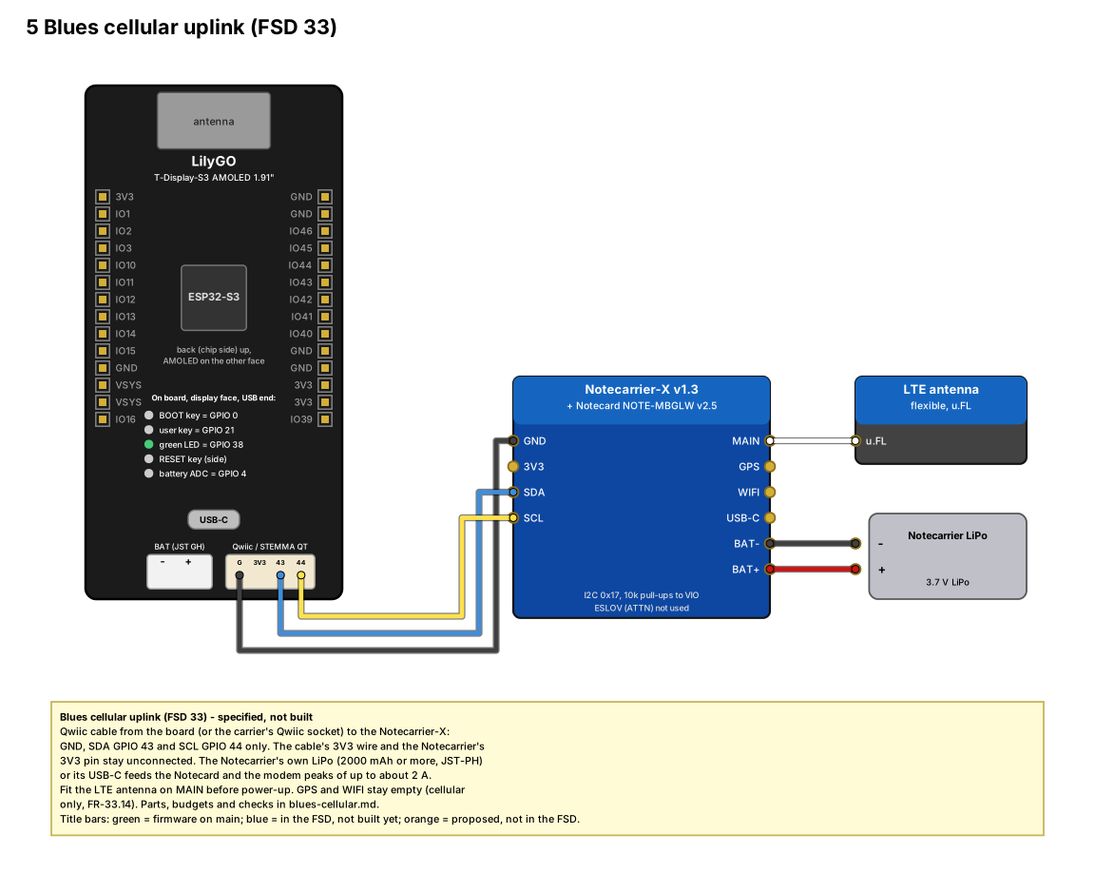
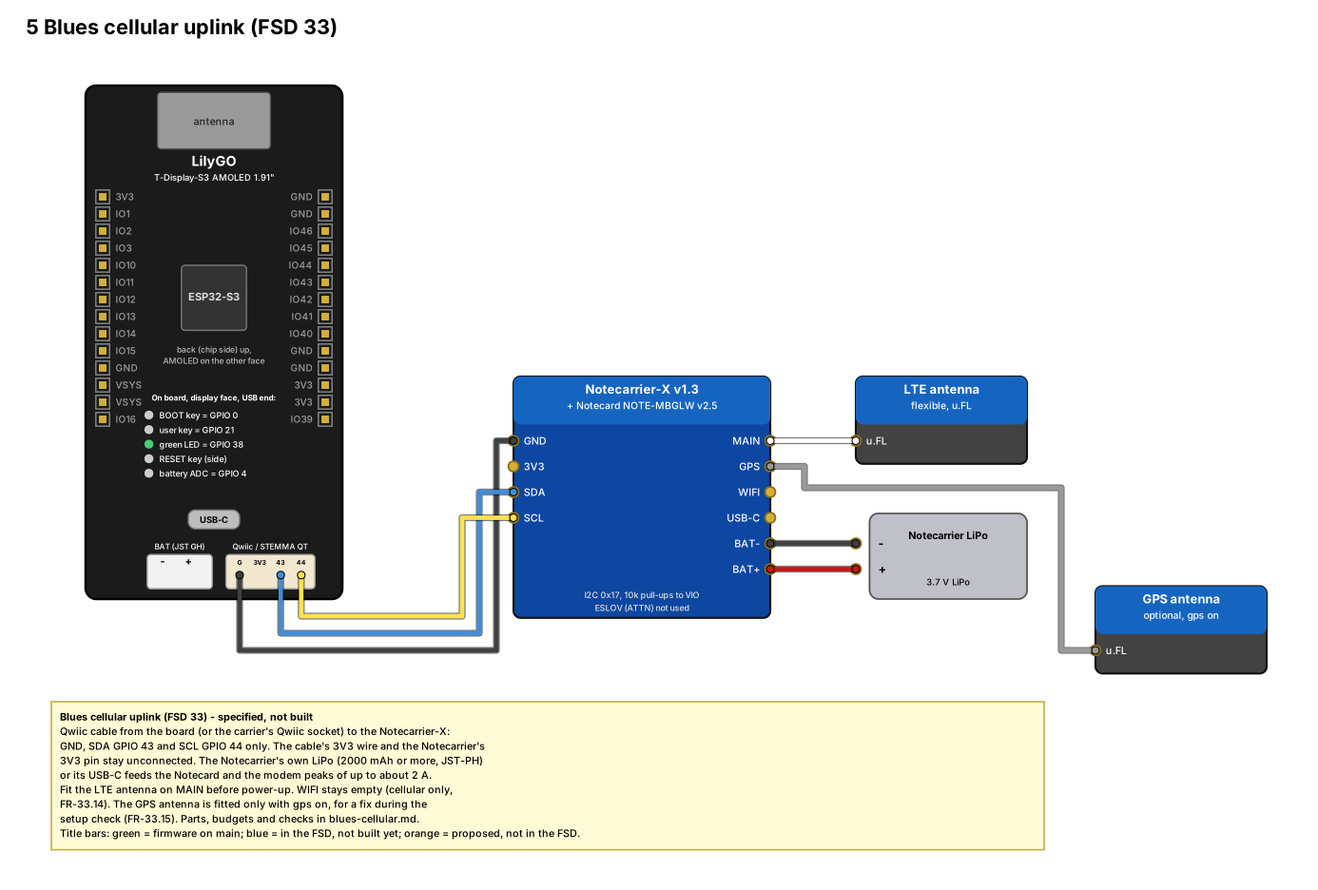
FSD 0.30.0: optional GPS fix during the setup check
From the user's request that the GPS be optionally used during setup.
A `gps` setting (on/off, only with uplink cell) makes the device seek a
fix with the Notecard's own GPS during each setup check hold, store the
place, hand it to the Notecard as its fixed location and send it to
ThingsBoard as latitude/longitude; line 6 shows the search during the
hold. L45 and R-35 (the Notecard's GPS and modem never run together,
and the GPS waits for the first Notehub sync) added. The hardware page,
its block figure, Fritzing sheet 5 and User Manual chapters 2 and 5g
gain the optional GPS antenna on the GPS u.FL.

Claude-Session: https://claude.ai/code/session_014onQRhSBgt3NiRWa3h5T5y

Changed region(s): [[0.0312, 0.0915, 0.9688, 0.976], [0.0312, 0.0, 0.3125, 0.061]]

diff --git a/docs/Method/project/wiring/make_wiring.py b/docs/Method/project/wiring/make_wiring.py
@@ -285,6 +285,9 @@ def build_parts(used):
     add(module_part("tds3a_lte_antenna", ["LTE antenna", "flexible, u.FL"], "specified",
                     left=["u.FL"], w=1000, color="#424242",
                     desc="Flexible LTE antenna with a u.FL lead, on the Notecard's MAIN port"))
+    add(module_part("tds3a_gps_antenna", ["GPS antenna", "optional, gps on"], "specified",
+                    left=["u.FL"], w=1000, color="#424242",
+                    desc="GPS antenna with a u.FL lead, on the Notecard's GPS port (optional)"))
     # 4-20 mA loop input, FSD section 29
     # Pin names are the parts' own (docs/Method/project/loop-circuit.md, "Parts").
     add(module_part("tds3a_load_switch", ["Load switch"], "built",
@@ -903,7 +906,9 @@ def sheet_blues(S):
                              ("Q SDA", "SDA", "blue", 3700, 2800),
                              ("Q SCL", "SCL", "yellow", 3600, 2700)):
         S.wire((B, bp), ("U2", np_), c, ("y", y), ("x", x))
+    S.place("AE2", "tds3a_gps_antenna", 6400, 3425)
     S.wire(("U2", "MAIN"), ("AE1", "u.FL"), "white")
+    S.wire(("U2", "GPS"), ("AE2", "u.FL"), "grey", ("x", 4700), ("y", 2850), ("x", 6200))
     S.wire(("U2", "BAT-"), ("BT2", "-"), "black")
     S.wire(("U2", "BAT+"), ("BT2", "+"), "red")
     S.note(300, 4100, 5800, [
@@ -912,8 +917,9 @@ def sheet_blues(S):
         "GND, SDA GPIO 43 and SCL GPIO 44 only. The cable's 3V3 wire and the Notecarrier's",
         "3V3 pin stay unconnected. The Notecarrier's own LiPo (2000 mAh or more, JST-PH)",
         "or its USB-C feeds the Notecard and the modem peaks of up to about 2 A.",
-        "Fit the LTE antenna on MAIN before power-up. GPS and WIFI stay empty (cellular",
-        "only, FR-33.14). Parts, budgets and checks in blues-cellular.md.",
+        "Fit the LTE antenna on MAIN before power-up. WIFI stays empty (cellular only,",
+        "FR-33.14). The GPS antenna is fitted only with gps on, for a fix during the",
+        "setup check (FR-33.15). Parts, budgets and checks in blues-cellular.md.",
         LEGEND,
     ])
 
@@ -928,7 +934,7 @@ SHEETS = [
     ("wiring-4-rs232", "4  RS232 instrument (FSD 30)",
      (9200, 6000), {"IO11", "IO12", "IO13", "GND"}, sheet_rs232),
     ("wiring-5-blues-cellular", "5  Blues cellular uplink (FSD 33)",
-     (6400, 5100), set(), sheet_blues),
+     (7700, 5200), set(), sheet_blues),
 ]
 
 

diff --git a/docs/Functionality/TDisplay-S3-Webserver-FSD.md b/docs/Functionality/TDisplay-S3-Webserver-FSD.md
@@ -417,7 +417,7 @@ testbench.
 - **Scope.** The optional Notecard uplink: settings, Notecard setup, the
   ThingsBoard batches, alerts and summary email as notes, the clock from the
   Notecard.
-- **Deliverables.** §33, L43, L44, the L20 `src=cell` form, R-31 – R-33; the
+- **Deliverables.** §33, L43 – L45, the L20 `src=cell` form, R-31 – R-33, R-35; the
   shared `notecard` component in esp-idf-components; a commissioning program
   that talks to the Notecard on GPIO 43/44 beside the BME280 and measures the time and size of a 100-reading `tb.qo` note and of one hourly sync (FR-33.7, NFR-33.2); a User Manual
   section for the Notehub project and its routes.
@@ -484,6 +484,7 @@ testbench.
 | R-31 | The testbench has no Notecard and no cellular coverage is declared at the bench, so the cellular rows need a Notecard on SLOT1's bus and a Notehub project | Certain | Medium | The user fits the Notecarrier-X by Qwiic at the bench; until then the cellular rows are `not done` and the cores are host-tested |
 | R-32 | A note counts as sent when the Notecard accepts it, so a route that fails later (wrong URL, target down) is not seen by the device | Certain | Medium | Notehub keeps each event and shows route failures and retries; the User Manual tells the user to check the route log |
 | R-33 | Notehub reaches the targets from the internet, so the LAN test servers (`192.168.2.37`, `192.168.2.231`) cannot be reached over cellular | Certain | Medium | Over cellular, ThingsBoard and ntfy must be the internet-reachable servers (`https://`, FR-32.9); the LAN servers stay for WiFi |
+| R-35 | The Notecard's GPS turns on only after its first Notehub sync and never while its modem is on, a cold first fix takes 1 – 2 min or fails indoors, and the Notecard ends a seek after about 17 min (after 90 s with no signal at all), so a setup check may end without a fix | Likely | Low | The search runs for the whole hold (up to 30 min, FR-24.6) after the time step's session; the GPS antenna faces the sky; an earlier place stays stored; the next key wake or setup check tries again |
 | R-34 | The shunt's 0.1 % and the ADS1115's worst-case gain error of 0.15 % together can exceed NFR-29.1 at 20 mA (0.05 mA against 0.04 mA); typical parts are well inside it | Unlikely | Medium | The NFR-29.1 calibrator test decides on each board; a board that fails gets a one-point gain trim setting, defined as a new requirement first |
 | R-27 | The testbench offers no RS232 peer today, so the bench tier of §30 needs a USB-RS232 adapter on the testbench host, wired to the DUT's DE-9, and a way for a test to drive it | Certain | Medium | The user adds the adapter (decided 2026-11-01); until the bench declares it, the RS232 bench rows are `not done` and the cores are host-tested; the loopback runs on the target tier |
 
@@ -652,7 +653,8 @@ Six text lines, landscape: lines 1 – 5 at most 33 characters each, line 6
 in a smaller font at most 44 (FR-6.14, FR-6.15). Line 4 is the
 reading in every state (FR-23.12); line 5 is empty except during the setup
 check (FR-24.13) and a BLE window (FR-26.23); line 6 holds the add-on values
-(FR-29.8, FR-30.10), empty with every add-on off; the table gives lines 1 – 3.
+(FR-29.8, FR-30.10), empty with every add-on off, except that it shows the
+GPS search during a setup check with `gps` `on` (FR-33.19); the table gives lines 1 – 3.
 
 | Connectivity state | Line 1 | Line 2 | Line 3 |
 |--------------------|--------|--------|--------|
@@ -1046,6 +1048,7 @@ bench. Transport: ESP-IDF log over USB-Serial/JTAG (C-10.5). Tag: `web`.
 | L42 | ThingsBoard request failed (FR-32.11) | `web: tb failed: <wifi\|dns\|connect\|tls\|cert\|auth\|refused\|server\|timeout> what=<telemetry\|attributes> n=<readings>` | W |
 | L43 | Note accepted by the Notecard (FR-33.11) | `web: cell note <tb\|tbattr\|alert\|mail> n=<readings, or 1>` | I |
 | L44 | Notecard request failed (FR-33.4, FR-33.10) | `web: cell failed: <timeout\|err\|full> <req>` | W |
+| L45 | GPS search ended in the setup check (FR-33.17, FR-33.18) | `web: gps fix lat=<±d.ddddd> lon=<±d.ddddd>` or `web: gps none` | I |
 | L17 | End of startup | `Init complete, running event-driven` (any tag) | I |
 
 ### 7.3 Requirements
@@ -1911,8 +1914,9 @@ with 60 they run 00:00, 01:00, 02:00 and so on. These two fields are the
 
 When WiFi has just been configured, the device does not drop straight into its
 sleep cycle. It holds with the panel lit, shows live readings and asks the
-installer to press a key to continue, so the sensors (and later e.g. a
-GPS fix) can be checked in place first. A pending mark in NVS says the check is
+installer to press a key to continue, so the sensors can be checked in place
+first, and, when `gps` is `on`, the Notecard takes a GPS fix of the place
+(§33.5, FR-33.15). A pending mark in NVS says the check is
 still owed; it survives sleep, reset and power loss. The logic layer (§5)
 decides when to hold and when the hold ends; the composition root reads the key
 and the clock. Either key ends the hold: the BOOT key, GPIO 0, next to the LED
@@ -3180,7 +3184,7 @@ holds, the composition root performs it.
 | Bus | I2C at 0x17 on the BME280's bus (GPIO 43/44, 100 kHz, C-23.1) through a Qwiic cable from the carrier's I2C fan-out (§2.2), which also feeds the BME280 and the water probe board; no address clash with 0x76 or the water ADS1115's 0x48. The Notecard's own 10 kΩ pull-ups to its VIO join the bus, so the bus's pull-ups in parallel stay at or above about 2.2 kΩ | [proposed] |
 | Power | The Notecarrier-X's own LiPo (or its USB-C) supplies the Notecard and its modem peaks (up to about 2 A), a LiPo of at least **2000 mAh** [proposed]: at hourly syncs (`cell_every` 60) the Notecard uses about **10 mAh a day** (Blues' published sync and idle figures; real use depends on signal, and each `sync:true` alert or email adds a session), so 2000 mAh lasts about 6 months between charges; the cable joins GND, SDA and SCL only, its 3.3 V wire left unconnected, so the board's 3.3 V and the Notecarrier's regulator are never tied together | [proposed] |
 | ATTN | Not connected in the first build (the Qwiic cable carries no ATTN; the ESLOV connector would); the device polls the Notecard | [proposed] |
-| Antenna | LTE: one flexible LTE antenna on the Notecard's `MAIN` u.FL, required because the Notecarrier-X has no onboard antenna, mounted with its long axis vertical on the inside of a plastic enclosure wall, at least 10 mm from metal, the LiPo and both PCBs, its coax kept clear of the AMOLED's QSPI lines and the ESP32-S3's antenna. GPS: not used by §33, so the `GPS` port's antenna needs no placement. WiFi: the Notecard's own WiFi is not used (FR-33.14), so its onboard WiFi antenna and `WIFI` u.FL need no placement. The combined LTE + GPS flexible antenna is used whole, never cut; separate orientations take two single flexible antennas. The fit is checked by the signal bars (`tbattr.qo`) with the enclosure closed | [proposed] |
+| Antenna | LTE: one flexible LTE antenna on the Notecard's `MAIN` u.FL, required because the Notecarrier-X has no onboard antenna, mounted with its long axis vertical on the inside of a plastic enclosure wall, at least 10 mm from metal, the LiPo and both PCBs, its coax kept clear of the AMOLED's QSPI lines and the ESP32-S3's antenna. GPS: only with `gps` `on` (FR-33.15), a GPS antenna on the Notecard's `GPS` u.FL (the GPS part of Blues' combined LTE + GPS flexible antenna, or a single GPS antenna), placed with the best view of the sky the site allows, for the fix during the setup check; with `gps` `off` the port stays empty. WiFi: the Notecard's own WiFi is not used (FR-33.14), so its onboard WiFi antenna and `WIFI` u.FL need no placement. The combined LTE + GPS flexible antenna is used whole, never cut; separate orientations take two single flexible antennas. The fit is checked by the signal bars (`tbattr.qo`) with the enclosure closed | [proposed] |
 
 ### 33.3 Settings
 
@@ -3192,6 +3196,7 @@ submission without them leaves the uplink as it was (`wifi` on a new device).
 | `uplink` | `wifi` or `cell` | one of the two; `cell` needs `nh_product`, given or stored | the stored value; `wifi` when none is stored [proposed] |
 | `nh_product` | the Notehub ProductUID, e.g. `com.example.joe:weather` | 1 – 64 bytes, letters, digits, `.`, `:`, `-` and `_` | the stored value |
 | `cell_every` | minutes between the Notecard's outbound syncs | whole minutes, 10 – 1440 | 60 [proposed] |
+| `gps` | take a GPS fix of the place during the setup check (§24): `on` or `off` | one of the two; `on` needs `uplink` `cell`, given or stored | the stored value; `off` when none is stored [proposed] |
 | `cell_mail` | email over cellular: `route` (a note to `mail.qo`, which a Notehub route passes to an HTTP mail service) or `off` (no email while `uplink` is `cell`) | one of the two | the stored value; `off` when none is stored [proposed] |
 
 ### 33.4 Notes
@@ -3199,7 +3204,7 @@ submission without them leaves the uplink as it was (`wifi` on a new device).
 | Notefile | Holds | Sync | Notehub route (set up by the user, User Manual) |
 |----------|-------|------|------------------------------------------------|
 | `tb.qo` | One ThingsBoard batch: the telemetry array of §32.3 as `body.t`, at most 100 readings | at the next periodic sync | General HTTP, JSONata `body.t`, to `<tb_url>/api/v1/<tb_token>/telemetry` |
-| `tbattr.qo` | The attributes of §32.3, with `"uplink":"cell"`, the signal bars and the Notecard's firmware version | at the next periodic sync | General HTTP to `<tb_url>/api/v1/<tb_token>/attributes` |
+| `tbattr.qo` | The attributes of §32.3, with `"uplink":"cell"`, the signal bars, the Notecard's firmware version and, when a place is stored, `latitude` and `longitude` (FR-33.18) | at the next periodic sync | General HTTP to `<tb_url>/api/v1/<tb_token>/attributes` |
 | `alert.qo` | One alert: `topic`, `title`, `priority`, `tags`, `message` of §31.3 | at once (`sync:true`) | General HTTP to the ntfy server's JSON publish endpoint `<ntfy_url>/` |
 | `mail.qo` | One email: `to`, `subject`, `text` (the §25 message, the §28 result); only with `cell_mail` `route` | at once (`sync:true`) | General HTTP to the user's mail service (e.g. SMTP2GO or SendGrid), its API key in the route |
 
@@ -3217,7 +3222,7 @@ Settings:
   field (portal) or `invalid=<field>` (BLE).
 - **FR-33.2** [Must] [derived] Valid settings shall be stored in NVS with the
   other settings at T3, or by an accepted BLE write in a key window (T14),
-  reported by the `settings` read (FR-26.9) with `uplink=<wifi|cell>` and `cell_mail=<route|off>`, and
+  reported by the `settings` read (FR-26.9) with `uplink=<wifi|cell>`, `cell_mail=<route|off>` and `gps=<on|off>`, and
   erased by a factory reset (T10), which also sets `uplink` back to `wifi`.
 - **FR-33.13** [Must] [user] Email over cellular shall be selectable by
   `cell_mail`: with `route`, a due summary or test result is added to
@@ -3283,6 +3288,35 @@ Time:
   again every **5 s** for up to **60 s** [proposed]; on a timer wake it asks
   once and does not wait.
 
+Location (optional, during the setup check):
+
+- **FR-33.15** [Must] [user] With `uplink` `cell` and `gps` `on`, the device
+  shall seek a GPS fix with the Notecard's own GPS during each setup check
+  hold (§24), and only then. With `gps` `off`, on a timer wake, and outside
+  the hold, it never turns the Notecard's GPS on.
+- **FR-33.16** [Must] [proposed] When the hold starts, after the Notecard
+  setup (FR-33.4, FR-33.14) and the time step of FR-33.12, the device shall
+  send `card.location.mode` `continuous` and ask `card.location` every
+  **5 s** until it answers with a fix (`lat` and `lon`) or the hold ends.
+  The Notecard turns its GPS on only after its first completed Notehub
+  sync, and never while its modem is on, so the search may wait for a
+  session to end (R-35).
+- **FR-33.17** [Must] [proposed] On a fix, the device shall store the
+  latitude and longitude (5 decimals) and the fix time in NVS, replacing
+  any earlier place, send `card.location.mode` `fixed` with them (the GPS
+  turns off, and Notehub tags each later event with the place), and log
+  L45 with the fix. The fix does not end the hold.
+- **FR-33.18** [Must] [proposed] When the hold ends without a fix (key or
+  timeout), the device shall send `card.location.mode` `fixed` with the
+  stored place, or `off` when none is stored, and log L45 `none`. A stored
+  place shall be sent as the attributes `latitude` and `longitude` with the
+  ThingsBoard attributes (`tbattr.qo`, and §32.3 over WiFi), and erased by
+  a factory reset (T10).
+- **FR-33.19** [Must] [proposed] During the hold with `gps` `on`, line 6
+  shall show `GPS searching <mm>:<ss>` (time since the search began) until
+  a fix, then `GPS <lat> <lon>` (5 decimals, at most 44 characters), in
+  place of the add-on values, which return when the hold ends.
+
 Power and data:
 
 - **NFR-33.1** [Must] [derived from NFR-32.1] A timer wake that sends notes
@@ -3311,6 +3345,11 @@ Power and data:
 | FR-33.6, FR-33.11, NFR-33.1 | Sleep test build, `uplink` `cell`, a Notecard on the bench (R-31), an upload due on the next timer wake | `web: wake cause=timer`, L21, L43 `tb.qo`, `web: sleep` within 10 s; the event on Notehub; no WiFi start | WiFi on a timer wake; the panel lit | target (R-31) |
 | FR-33.12 (core) | Window, clock never set: `card.time` answers no time, then a time on the 4th ask; never a time; timer wake with no time | One `hub.sync`, asks at 5 s steps, clock set on the 4th; asks stop at 60 s; one ask, no wait | A second `hub.sync`; waiting on a timer wake | host |
 | FR-33.12 | Power-on with `uplink` `cell`, the bench AP down | L20 with `src=cell` and a year ≥ 2026 within 60 s | A reading with `at=none` after L20 | target (R-31) |
+| FR-33.1, FR-33.15 (core) | Bodies: `gps=on` with `uplink` `wifi` stored; with `uplink=cell`; `gps=yes` | 400 `gps`; stored; 400 `gps` | `gps` `on` stored with `uplink` `wifi` |
+| FR-33.15, FR-33.16, FR-33.17 (core) | Hold with `gps` `on`: `card.location` answers no fix twice, then a fix; `gps` `off`; a timer wake | `continuous` once, asks at 5 s steps, then `fixed` with the place, the place stored, L45; no location request with `off` or on a timer wake | A location request outside the hold; the hold ended by the fix |
+| FR-33.18 (core) | Hold ends by key with no fix: a place stored; none stored | `fixed` with the stored place, L45 `none`; `off`, L45 `none` | The stored place erased by a failed search |
+| FR-33.19 (core) | Line 6 at 0 s, 75 s, after a fix at 40.712776, -74.005974 | `GPS searching 00:00`; `GPS searching 01:15`; `GPS 40.71278 -74.00597` | More than 44 characters; the add-on values during the search |
+| FR-33.15, FR-33.17 | A Notecard with its GPS antenna at a window (R-31, R-35), `gps` `on`, provisioned | L45 with the bench's place within the hold; `latitude` and `longitude` in the next `tbattr.qo` | L45 on a timer wake | bench (operator) |
 | FR-33.8 | The user's routes set up, an alert and a summary due | The ntfy message and the email arrive | Nothing on the target with L43 logged | bench (operator) |
 | NFR-33.2 | A month of the `std` setup on cellular | Notehub's data use for the device under 4 MB | — | bench (operator) |
 
@@ -3484,7 +3523,8 @@ Runtime configuration (the only persisted items):
 | `tb`, `tb_url`, `tb_every` | on/off / text / minutes | `off`; none; 60 | §32.2 | NVS | operational | portal (§13, §32.2), BLE (§26) | FR-32.1 | immediate (T3); restart (T14) | erased by factory reset |
 | `tb_token` | text | none | 1 – 64 letters, digits, `-`, `_` | NVS | secret | portal (§13, §32.2), BLE write only (§26) | FR-32.1 | immediate (T3); restart (T14) | erased by factory reset |
 | `tb_mark` | place in the history | before the oldest reading | §27 | NVS | operational | moved by an accepted upload (FR-32.8) | none | next upload | erased by factory reset |
-| `uplink`, `nh_product`, `cell_every`, `cell_mail` | text / number | `wifi`, none, 60, `off` | §33.3 | NVS | operational | portal (§13), BLE (§26) | FR-33.1 | immediate (T3); restart (T14) | erased by factory reset (`uplink` back to `wifi`) |
+| `uplink`, `nh_product`, `cell_every`, `cell_mail`, `gps` | text / number | `wifi`, none, 60, `off`, `off` | §33.3 | NVS | operational | portal (§13), BLE (§26) | FR-33.1 | immediate (T3); restart (T14) | erased by factory reset (`uplink` back to `wifi`) |
+| `gps_lat`, `gps_lon`, `gps_at` | number / time | none | 5 decimals; the fix time | NVS | operational | set by a fix in the setup check (FR-33.17) | none | next attributes | erased by factory reset |
 | `wifi` | on/off | `on` | `on`, `off` | NVS | operational | portal (§13, §34.2), BLE (§26) | FR-34.1 | immediate (T3, T16); restart (T14) | erased by factory reset (back to `on`) |
 | `setup_check` | flag | not pending | pending / not | NVS | operational | set by T3, cleared by a key (FR-24.11) | none | next non-timer boot | erased by factory reset |
 | `history` | readings (§27.1) | empty | 2 MB, about 65,000 readings | flash partition (C-10.10) | operational | appended by the task; read by `GET /api/history` and BLE (§27) | FR-27.3 | next reading | erased by factory reset (FR-27.7) |
@@ -3642,7 +3682,7 @@ they apply in changed (SHOWING → LCD_OK, §5.3's display region).
 
 ```yaml
 document_status: draft
-fsd_version: 0.29.0
+fsd_version: 0.30.0
 repository: https://github.com/solchjg/tdisplay-s3-amoled
 baseline_commit: (the commit introducing this version)
 applicable_firmware_version: none yet
@@ -3703,8 +3743,10 @@ change_history:
   - "0.27.0 2026-11-02 from the user's antenna question (orientation of the Blues combined LTE + GPS antenna, can it be cut): §33.2 gains an Antenna row (proposed)"
   - "0.28.0 2026-11-02 from the user's request for an option to turn WiFi off with Bluetooth left as it is: §34 WiFi Off (FR-34.1 – FR-34.12), the WIFI_OFF state with T15 and T16 (§5.3) and its screen (§5.4), T10 and T14 from WIFI_OFF, exceptions for `wifi` `off` added to FR-5.11, FR-5.12, FR-13.4, FR-21.11, FR-21.12 and FR-33.6, §9.1, Phase 16; Appendix A `wifi`"
   - "0.29.0 2026-11-02 from the user's acceptance of the Notecard review (the NOTE-MBGLW v2.5 the user owns, on a Notecarrier-X v1.3, run on cellular only): §2.2 and §33.2 name the card and carrier (user), the antenna row needs one flexible LTE antenna (no onboard antenna on the Notecarrier-X) and leaves the WiFi antenna unplaced, the power row gains the 10 mAh-a-day estimate and a 2000 mAh LiPo; FR-33.14 cellular-only transport (user); FR-33.12 one hub.sync and 60 s of time polls in a window; FR-33.7 100 readings confirmed by commissioning, else 50; NFR-33.2 a Notefile template and a measured batch; FR-34.8 covers the Notecard's WiFi; §4.3 the Notecard's WiFi out of scope; Phase 15 commissioning measures batch time and size"
+  - "0.30.0 2026-11-02 from the user's request that the GPS be optionally used during setup: the `gps` setting (§33.3), FR-33.15 – FR-33.19 (a fix with the Notecard's GPS during the setup check, stored, sent to the Notecard as its fixed place and to ThingsBoard as `latitude` and `longitude`, shown on line 6 during the hold), L45, R-35; §24.1, §5.4, §33.2 antenna row, §33.4, Phase 15 and Appendix A updated"
 superseded_requirements: [FR-5.1, FR-5.2, FR-5.3, FR-5.4, FR-5.5, FR-5.6, FR-5.7, FR-5.8, FR-5.9, FR-5.10, FR-7.1, FR-7.2, FR-7.3, FR-7.4, FR-9.1, C-10.4, FR-15.2, FR-15.3, FR-15.4, FR-15.6, FR-15.7, FR-14.1, FR-14.2, FR-5.22, FR-6.5, FR-6.6, FR-15.5, FR-18.1, FR-7.15, FR-6.9, FR-6.10, FR-6.11, FR-7.11, FR-23.6, FR-23.11, FR-23.8, FR-24.4, FR-21.10, FR-24.5, FR-24.10, FR-18.2, FR-25.4, FR-25.7, FR-23.2, FR-9.2, FR-25.2, FR-7.33, C-10.6, FR-23.14, FR-6.2, FR-6.12, FR-23.13, FR-27.2, C-10.9, FR-24.12, FR-26.14, NFR-30.2]
 open_decisions:
+  - "FR-33.16 – FR-33.19: GPS search for the whole hold at 5 s asks, `fixed` mode after a fix, `latitude`/`longitude` ThingsBoard attributes, line 6 during the hold; `gps` default off and only with `uplink` `cell`"
   - "§34 WiFi Off as a whole, drafted for the user's approval"
   - "FR-34.2: with `wifi` `off`, WiFi credentials optional, and stored ones kept so WiFi can be turned back on without retyping"
   - "FR-34.11: with `wifi` `off` and `uplink` `wifi`, the setting is accepted and nothing is sent (summary period advances, ThingsBoard mark stays)"

diff --git a/docs/Method/project/blues-cellular.md b/docs/Method/project/blues-cellular.md
@@ -2,7 +2,8 @@
 
 The hardware for the cellular uplink of FSD §33: a Blues Notecard Cell+WiFi
 **NOTE-MBGLW**, hardware v2.5, on a **Notecarrier-X v1.3**, both parts the user owns.
-The device runs the Notecard on cellular only (FR-33.14). The FSD specifies it, but
+The device runs the Notecard on cellular only (FR-33.14), and, when `gps` is `on`,
+uses its GPS once per setup check to take a fix of the place (FR-33.15). The FSD specifies it, but
 neither the firmware nor the wiring is built yet. Nothing is soldered: the Notecarrier
 joins the I2C bus by a Qwiic cable, and the antenna and the LiPo plug into it. Fritzing
 [sheet 5](wiring/wiring-5-blues-cellular.png) shows the wiring, and sheet 1 shows the
@@ -23,6 +24,7 @@ Sources; check them against the current ones.
 | U2 | Modem | Blues Notecard Cell+WiFi NOTE-MBGLW v2.5, M.2 key E: LTE Cat-1 bis, global bands, 500 MB and 10 years of service included | I2C 0x17, 10 kΩ pull-ups to its VIO. Its WiFi stays unused (FR-33.14) |
 | U2 | Carrier | Blues Notecarrier-X v1.3: M.2 socket, USB-C, JST-PH LiPo connector and charger, Qwiic and ESLOV I2C connectors | No onboard antenna. ESLOV also carries ATTN, which this device does not use |
 | AE1 | LTE antenna | Flexible LTE antenna with a u.FL lead, such as Blues' flexible LTE antenna | On the Notecard's `MAIN` port. Required: the carrier has none |
+| AE2 | GPS antenna, optional | The GPS part of Blues' combined LTE + GPS flexible antenna, or a single passive GPS antenna, u.FL | On the Notecard's `GPS` port, only with `gps` `on`. Never cut the combined antenna |
 | BT2 | Notecard supply | LiPo cell, 3.7 V, at least 2000 mAh, JST-PH 2.0 mm, protected | Check the JST-PH polarity: makers wire it both ways |
 | W1 | Bus link | Qwiic (JST-SH 4-pin) cable, 100 – 200 mm | Its red 3.3 V wire is cut or pulled from the plug at the carrier end |
 
@@ -53,8 +55,9 @@ unreliable access point.
 | Carrier Qwiic socket pin 3 | Notecarrier-X Qwiic SDA | GPIO 43, SDA |
 | Carrier Qwiic socket pin 4 | Notecarrier-X Qwiic SCL | GPIO 44, SCL |
 | Notecard `MAIN` u.FL | AE1 | LTE RF |
+| Notecard `GPS` u.FL | AE2, only with `gps` `on` | GPS RF |
 | Notecarrier-X JST-PH | BT2 | LiPo, charged from USB-C |
-| Notecard `GPS`, `WIFI` u.FL; ESLOV; Notecarrier headers | nothing | Unused |
+| Notecard `WIFI` u.FL; ESLOV; Notecarrier headers | nothing | Unused |
 
 On the bench, sheet 5 takes the bus from the board's own Qwiic connector, which carries
 the same GPIO 43/44. In the build, the carrier's I2C fan-out feeds the BME280, the water
@@ -80,6 +83,16 @@ Notecarrier's regulator are never tied together, and the shared ground keeps the
 levels referenced. The Notecard's VIO is 3.3 V from the carrier, the same level as the
 board's bus.
 
+### GPS at setup
+
+The Notecard's GPS and its modem never run together, and the GPS turns on only after
+the Notecard's first completed Notehub sync. So the device starts the search after the
+setup check's time step, keeps it for the hold, and, on a fix, sends
+`card.location.mode` `fixed` with the place: the GPS turns off, and Notehub tags later
+events with it. A cold first fix takes 1 – 2 minutes with a view of the sky; the
+Notecard gives a seek up after about 17 minutes, or after 90 s with no signal at all
+(R-35).
+
 ### Always powered
 
 The Notecard stays powered through deep sleep (FR-33.5) and idles at about 18 µA.
@@ -94,6 +107,7 @@ network, so nothing on the board switches it.
 | One sync, idle included | about 0.42 mAh | Blues' 30-minute test |
 | Hourly syncs (`cell_every` 60) | about 10 mAh a day | Each `sync:true` alert or email adds a session; weak signal costs more |
 | BT2 runtime | about 6 months on 2000 mAh | Between charges; `cell_every` 240 cuts the sync cost about 4×, with readings up to 4 h late |
+| GPS | at most one seek per setup check, about 17 min at the longest | From BT2; off the rest of the time (FR-33.15) |
 | Modem peaks | up to about 2 A | Carried by BT2 and the Notecarrier's regulator |
 | Board current | none | Only the I2C pull-ups' share while the bus is driven |
 | Data | about 1 – 2.5 MB a month at hourly syncs | Blues measured 1.3 – 3.5 KB per sync of up to 100 notes; NFR-33.2 allows 4 MB |
@@ -113,10 +127,14 @@ What the firmware does with `uplink` `cell` (FSD §33.5):
 4. On a boot whose clock was never set, ask `card.time`. In a window, request one
    `hub.sync` and ask again every 5 s for up to 60 s; on a timer wake ask once
    (FR-33.12).
-5. Add the due notes with `note.add`: `tb.qo` batches of at most 100 readings, then
+5. In a setup check with `gps` `on`, send `card.location.mode` `continuous` and ask
+   `card.location` every 5 s. On a fix, store it, send `fixed` with it and log L45;
+   at the end of a hold without one, send `fixed` with the stored place or `off`, and
+   log L45 `none`. Line 6 shows the search meanwhile (FR-33.16 – FR-33.19).
+6. Add the due notes with `note.add`: `tb.qo` batches of at most 100 readings, then
    `tbattr.qo`; `alert.qo` and `mail.qo` with `sync:true` (FR-33.6 – FR-33.8). Each
    accepted note is L43, each refused one L44.
-6. Move the upload mark past each accepted batch (FR-33.7), and sleep within 10 s of the
+7. Move the upload mark past each accepted batch (FR-33.7), and sleep within 10 s of the
    wake (NFR-33.1).
 
 Notehub reaches the route targets from the internet, so the LAN test servers can't
@@ -136,7 +154,9 @@ in a note (FR-33.9).
    Notecarrier only with its supply on.
 5. **The antenna first.** Fit AE1 on `MAIN` before powering the Notecarrier: the modem
    must not transmit without a load.
-6. **BT2's plug.** Check the LiPo's JST-PH polarity against the Notecarrier's marking.
+6. **AE2, when used.** Fit it on `GPS`, not `MAIN`: the two u.FL ports sit side by
+   side.
+7. **BT2's plug.** Check the LiPo's JST-PH polarity against the Notecarrier's marking.
 
 ## Bring-up
 
@@ -147,6 +167,8 @@ on GPIO 43/44 beside the BME280. It:
 - reads `card.version`, `card.transport` and `card.wireless` (the signal bars);
 - adds one `tb.qo` note of 100 readings and prints how long `note.add` took, which must
   fit in NFR-33.1's 10 s at 100 kHz, else the batch limit is 50 (FR-33.7);
+- with AE2 fitted, turns the GPS on after a sync and prints the `card.location` status
+  every 5 s until a fix, to time a cold fix at the bench window;
 - forces one sync and reads the session's data use from Notehub, to compute the monthly
   figure for NFR-33.2 from a measurement.
 
@@ -156,7 +178,9 @@ Mount AE1 per the [User Manual, 5g](../../UserDocumentation/User-Manual.md#5g-pl
 long axis vertical, on the inside of a plastic enclosure wall, at least 10 mm from
 metal, the LiPo and both PCBs, its coax clear of the AMOLED's QSPI lines and the
 ESP32-S3's antenna. Check the fit by the signal bars in `tbattr.qo` with the enclosure
-closed. Keep USB-C on the Notecarrier reachable, or route it out, to charge BT2.
+closed. With `gps` `on`, give AE2 the best view of the sky the site allows (the
+upper wall facing a window, or outdoors), and run the setup check with the box in place,
+so the fix is the place where it stands. Keep USB-C on the Notecarrier reachable, or route it out, to charge BT2.
 
 ## Sources
 
@@ -165,6 +189,8 @@ closed. Keep USB-C on the Notecarrier reachable, or route it out, to charge BT2.
 - [Blues: Low-Power Firmware Design, power usage estimates](https://dev.blues.io/notecard/notecard-walkthrough/low-power-firmware-design/#power-usage-estimates)
 - [Blues: Notecard WiFi v2 deep sleep](https://dev.blues.io/notecard/notecard-walkthrough/low-power-firmware-design/#deep-sleep-mode-on-notecard-wifi-v2)
 - [Blues: Cell+WiFi, WiFi first with cellular fallback](https://dev.blues.io/blog/next-generation-of-notecards/#wifi-connectivity-with-a-fallback-to-cellular)
+- [Blues: Time and location requests, GPS](https://dev.blues.io/notecard/notecard-walkthrough/time-and-location-requests/#working-with-gps-on-the-notecard)
+- [Blues: Diagnosing GPS issues](https://dev.blues.io/support/diagnosing-gps-issues/)
 - [Blues: Antenna guide](https://dev.blues.io/datasheets/application-notes/antenna-guide/)
 - [Blues: Low Bandwidth Design, data usage](https://dev.blues.io/notecard/notecard-walkthrough/low-bandwidth-design/#periodic-minimum-mode-usage)
 - [Blues: Understanding event credits](https://dev.blues.io/notehub/notehub-walkthrough/#understanding-event-credits)

diff --git a/docs/UserDocumentation/User-Manual.md b/docs/UserDocumentation/User-Manual.md
@@ -52,6 +52,12 @@ With no stored credentials the display shows `Setup WiFi`, the network name
    device stays up for one more minute, takes its first reading and goes to
    sleep. Holding BOOT for 5 seconds still erases the settings (chapter 5).
 
+   With the cellular uplink and GPS turned on (`gps` `on`, chapter 5g), the sixth
+   line shows `GPS searching` with the time so far, then the place once the
+   Notecard has a fix. Leave the device where it will stand until the place
+   shows, then press the key. A first fix usually takes a few minutes; without
+   one, the device keeps the place it found before.
+
    If nobody presses the key within 30 minutes, the device goes to sleep
    anyway. It waits again the next time it is woken by the key or powered on,
    until the key is pressed during a wait. A timer wake never waits. A factory
@@ -381,8 +387,11 @@ whether the Notecard gets a signal once the board is in its enclosure.
   LiPo, the Notecarrier, the display board and screws.
 - Bend the antenna and its thin cable only in gentle curves, never a crease.
   Route the cable away from the display board.
-- The GPS port is not used, so its antenna can stay unplugged or stowed. The
-  Notecard's own WiFi is not used either (the device runs it on cellular
+- The GPS port is used only when GPS is turned on in the settings (`gps` `on`),
+  for a fix of the place during the setup check. Then plug the GPS antenna (the
+  GPS part of the combined antenna, or a single one) into the Notecard's `GPS`
+  u.FL and give it the best view of the sky: the upper wall facing a window, or
+  outdoors. With GPS off, the port can stay empty. The Notecard's own WiFi is not used either (the device runs it on cellular
   only), so its small onboard WiFi antenna and `WIFI` connector need nothing.
 - Do not cut the combined LTE + GPS flexible antenna to place the two parts
   apart: both parts are tuned together on one strip. If you want them in
